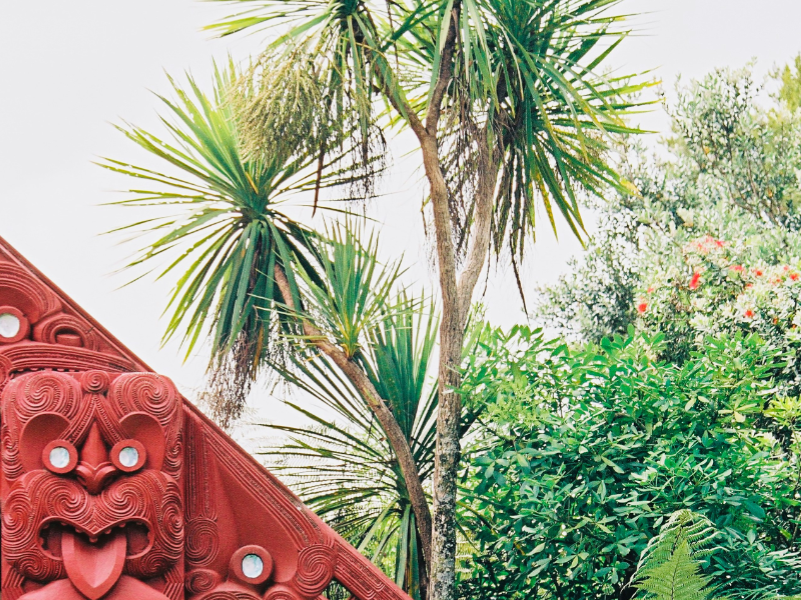
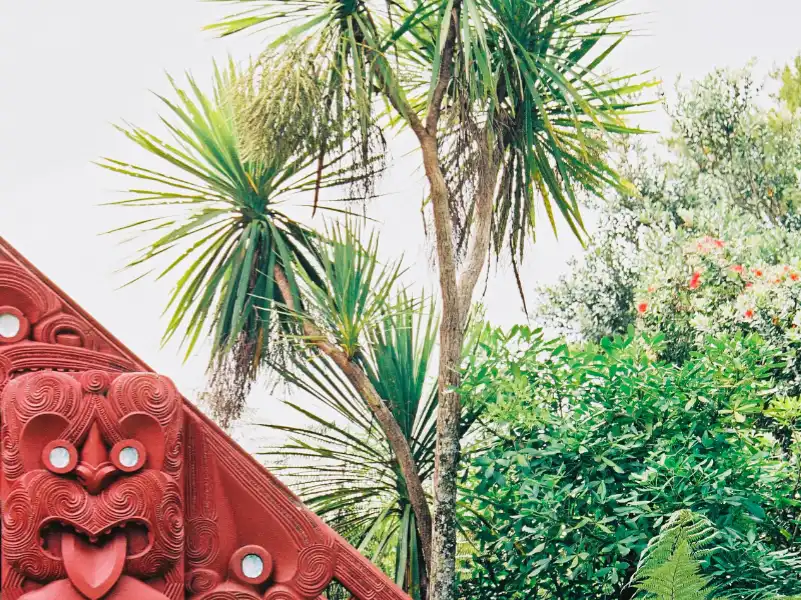
resize images

diff --git a/place.html b/place.html
@@ -28,7 +28,7 @@
             <picture>
                 <source srcset="images/place-hero-lg.webp" media="(min-width: 950px)">
                 <source srcset="images/place-hero-med.webp" media="(min-width: 500px)">
-                <img src="images/place-hero-sml.webp" alt="Māori carving on a Marae with native NZ bush in the background." width="1500" height="1000">
+                <img src="images/place-hero-sml.webp" alt="Māori carving on a Marae with native NZ bush in the background." width="1350" height="900">
             </picture>
         </section>
 
